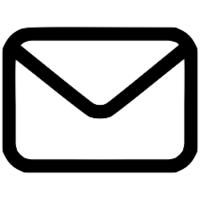
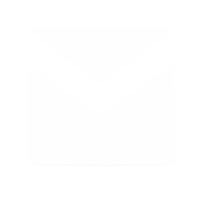
Finished website draft

Changed region(s): [[0.0, 0.12, 0.99, 0.87]]

diff --git a/src/pages/Projects.js b/src/pages/Projects.js
@@ -1,0 +1,37 @@
+import React from "react";
+import ProjectItem from "/Users/juanlucasumali/Desktop/berkeley/codebase/mentoredfa22/website-juan/src/components/projectItem.js";
+import "/Users/juanlucasumali/Desktop/berkeley/codebase/mentoredfa22/website-juan/src/pages/Projects.css"
+
+export default function Projects(){
+    return(
+        <div>
+                <div id="projects" className="text">
+                    <div id="title" >projects</div>
+                    <div className="resume">
+                            <ProjectItem
+                                date="February 2022 — March 2022"
+                                project_title="KNN and Decision Tree ML Models"
+                                description_1="- Created and implemented KNN and decision tree from scratch using Python"
+                                description_2=""
+                                description_3=""
+                            />
+                            <ProjectItem
+                                date="April 2022 —  May 2022"
+                                project_title="Neuroevolution Simulation"
+                                description_1="- Simulated neuroevolution in Unity 3D using C# and the Unity ML-Agents toolkit"
+                                description_2="- Applied a genetic algorithm to a population of artificial neural networks assigned to simulated cars to emulate an ‘evolving’ population of self-driving car AIs"
+                                description_3=""
+                            />
+                            <ProjectItem
+                                date="August 2022 —  September 2022"
+                                project_title="Chord Progression Generator"
+                                description_1="- Created and deployed a website in HTML, CSS, and JavaScript which generates a chord progression"
+                                description_2=""
+                                description_3=""
+                            />
+                    </div>
+                </div>
+            
+        </div>
+    )
+}

diff --git a/src/pages/Contact.js b/src/pages/Contact.js
@@ -1,0 +1,35 @@
+import React from "react";
+import "/Users/juanlucasumali/Desktop/berkeley/codebase/mentoredfa22/website-juan/src/pages/Contact.css";
+import linkedin from '/Users/juanlucasumali/Desktop/berkeley/codebase/mentoredfa22/website-juan/src/linkedin-icon.png';
+import github from '/Users/juanlucasumali/Desktop/berkeley/codebase/mentoredfa22/website-juan/src/github-icon.png';
+import mail from '/Users/juanlucasumali/Desktop/berkeley/codebase/mentoredfa22/website-juan/src/email-icon.png'
+import SpecificLogo from "/Users/juanlucasumali/Desktop/berkeley/codebase/mentoredfa22/website-juan/src/components/contactLogo.js";
+
+
+export default function Contact(){
+    return(
+        <div className="wrapper">
+            <div id="contact"></div>
+            <div className="contact-box">
+                <div className="contactTitle">let's connect!</div>
+            </div>
+            <div className="logo-box">
+            <SpecificLogo 
+                className='logo-img linkedin'
+                link="https://www.linkedin.com/in/juanlucasumali/"
+                src={linkedin}
+            />
+            <SpecificLogo 
+                className="logo-img github"
+                link="https://github.com/juanlucasumali"
+                src={github}
+            />
+            <SpecificLogo 
+                className="logo-img email"
+                link="mailto:juanlucasumali@berkeley.edu"
+                src={mail}
+            />
+            </div>
+        </div>
+    )
+}

diff --git a/src/pages/Contact.css b/src/pages/Contact.css
@@ -1,0 +1,60 @@
+.wrapper{
+    position: relative;
+    transform: translate(33em, 123em);
+    
+}
+
+#contact{
+    transform: translate(-50em, -20em);
+}
+
+.contactTitle{
+    transform: translate(-2em);
+    padding-left: 12.5vh;
+    padding-top: 13vh;
+    padding-top: 0.5em;
+    font-size: 3em;
+    font-family: Arial, Helvetica, sans-serif;
+    color:#ED9562;
+    font-style: oblique;
+    font-weight: bolder;
+    letter-spacing: 0.2em;
+    text-shadow: 6em;
+    text-shadow: 0px 3px 50px #181818;
+    transition: 0.3s;
+    
+}
+
+.contactTitle:hover {
+    color:#e5e5e5;
+}
+
+.logo-box {
+    transform: translate(-28.5em, -4em) scale(0.2);
+}
+
+.linkedin{
+    width: 30vh;
+    transform: scale(0.9) translate(-10em);
+    transition: 0.2s;
+}
+.linkedin:hover {
+    transform: scale(1.2) translate(-7em);
+}
+
+.github{
+    width: 30vh;
+    transition: 0.2s;
+}
+.github:hover{
+    transform: scale(1.2) ;
+}
+
+.email{
+    width: 30vh;
+    transform: scale(1.1) translate(9em, 0.5em);
+    transition: 0.2s;
+}
+.email:hover {
+    transform: scale(1.3) translate(8em);
+}

diff --git a/src/components/projectItem.js b/src/components/projectItem.js
@@ -1,0 +1,23 @@
+import React from "react";
+
+export default function ProjectItem(props){
+    return(
+        // <div id="item">
+        //    <div id="date">fa'22</div>
+        //    <div id="role">mentored developer @ berkeley codebase</div>
+        //    <hr id="line"></hr>
+        // </div>
+        <div id="item">
+            <div id='item-box'>
+            </div>
+            <div id="date">{props.date}</div>
+            <div id="project_title">{props.project_title}</div>
+            <div id='description'>
+            <div id='description_1'>{props.description_1}</div>
+            <div id='description_2'>{props.description_2}</div>
+            <div id='description_3'>{props.description_3}</div>
+            </div>
+            <hr id="line"></hr>
+        </div>
+    )
+}

diff --git a/src/pages/Projects.css b/src/pages/Projects.css
@@ -1,5 +1,5 @@
-#experiences {
-    transform: translate(0, 80em);
+.text {
+    transform: translate(0, 100em);
 }
 
 .text{
@@ -22,9 +22,14 @@
     letter-spacing: 0.2em;
     text-shadow: 6em;
     text-shadow: 0px 3px 50px #181818;
+    transition: 0.3s;
 }
 
-#resume{
+#title:hover {
+    color:#e5e5e5;
+}
+
+.resume{
     display: flex;
     flex-direction: column;
     padding-top: 1em;
@@ -45,7 +50,7 @@
     font-style: oblique;
 }
 
-#role{
+#project_title{
     font-size: 1.25em;
     padding-top: 0.1em;
     padding-bottom: 0.3em;
@@ -55,7 +60,7 @@
     transition: 0.3s;
 }
 
-#role:hover {
+#project_title:hover {
     color:#e5e5e5;
     cursor:none;
 }

diff --git a/src/App.js b/src/App.js
@@ -5,6 +5,10 @@ import FrontPage from "./components/FrontPage.js";
 import Stars from './components/Stars';
 import Experience from "./pages/Experiences.js";
 import './pages/Experiences.css';
+import Projects from "./pages/Projects.js";
+import './pages/Projects.css';
+import Contact from "./pages/Contact.js";
+import './pages/Contact.css';
 
 
 
@@ -17,6 +21,10 @@ function App() {
       <div id='experience'>
       <Experience />
       </div>
+      <div >
+      <Projects />
+      </div>
+      <div><Contact /></div>
     </div>
   )
   

diff --git a/src/components/contactLogo.js b/src/components/contactLogo.js
@@ -1,0 +1,7 @@
+import React from "react";
+
+export default function SpecificLogo(props){
+    return(
+        <a href={props.link} target="_blank" rel="noopener noreferrer"><img className={props.className} src={props.src} alt="contact logo"/></a>
+    )
+}

diff --git a/src/App.css b/src/App.css
@@ -40,3 +40,9 @@ body {
     transform: rotate(360deg);
   }
 }
+
+#contacts{
+  position: relative;
+  transform: translate(0vw, 130vh);
+  z-index: -1;
+}

diff --git a/src/components/FrontPage.css b/src/components/FrontPage.css
@@ -135,7 +135,7 @@ body {
     letter-spacing: 0.1em;
 }
 
-.it-juan p:hover{
+.it-juan-text:hover{
     color: #e5e5e5; 
 }
 
